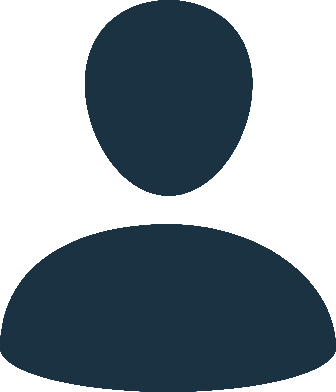
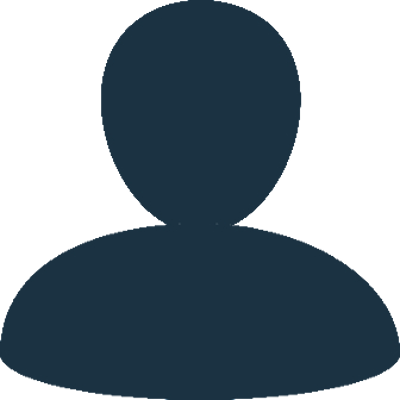
Rescaled the default profilepic Added /forum/ link

diff --git a/src/base/templates/header.html b/src/base/templates/header.html
@@ -36,7 +36,7 @@
             <a href="{% url 'timetable-list-page' %}" title="Bekijk alle roosters">Roosters</a>
           </li>
           <li>
-            <a href="http://rehobothkerkwoerden.nl/forum/" title="Bezoek het forum">Forum</a>
+            <a href="/forum/" title="Bezoek het forum">Forum</a>
           </li>
           {% comment "Calendar not yet enabled for our users" %}
           <li>
